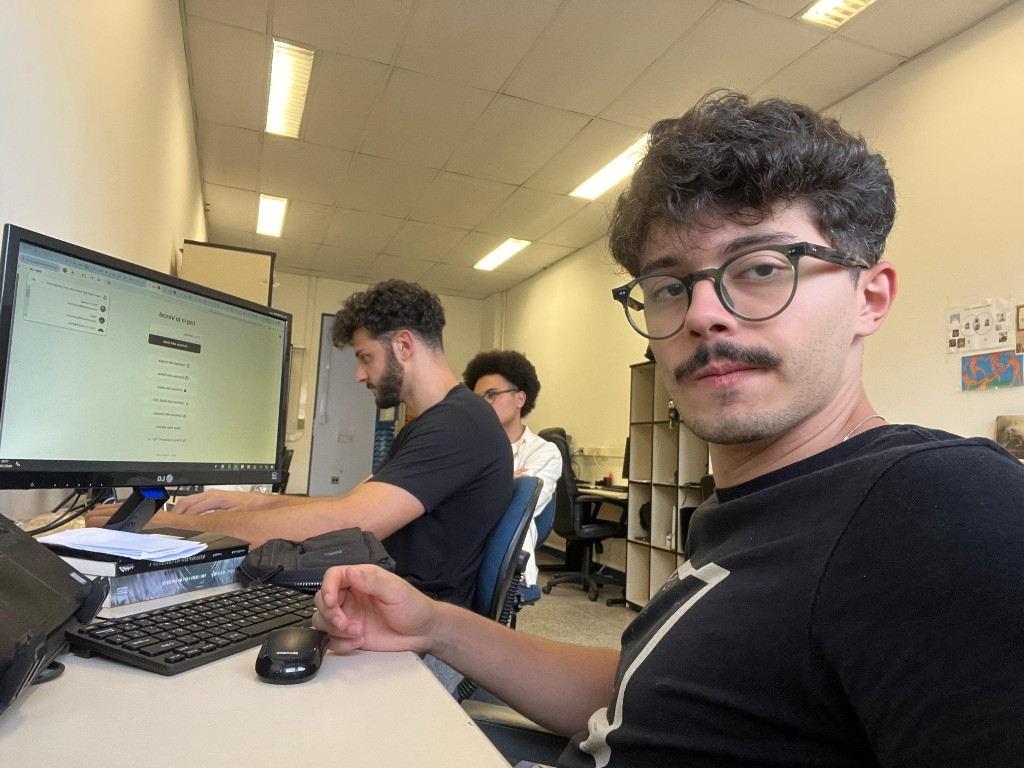
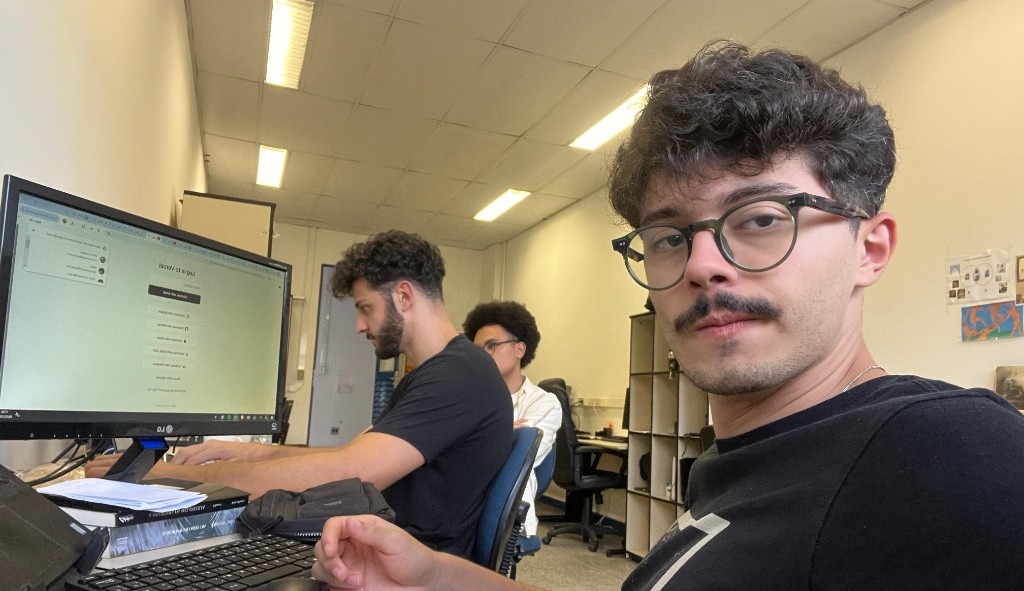
Rate limit sugestões (Upstash), foto Nós Víctor, acento clínica, nota e i18n

diff --git a/lib/sugestoes-rate-limit.ts b/lib/sugestoes-rate-limit.ts
@@ -1,0 +1,60 @@
+import { Ratelimit } from "@upstash/ratelimit";
+import { Redis } from "@upstash/redis";
+
+/** Janela deslizante: margem larga para utilizadores reais; corta abuso em massa. */
+const WINDOW = "15 m";
+const MAX_IN_WINDOW = 35;
+
+let ratelimit: Ratelimit | null | undefined;
+
+function getRatelimit(): Ratelimit | null {
+  if (ratelimit !== undefined) return ratelimit;
+  const url = process.env.UPSTASH_REDIS_REST_URL;
+  const token = process.env.UPSTASH_REDIS_REST_TOKEN;
+  if (!url || !token) {
+    ratelimit = null;
+    return null;
+  }
+  const redis = new Redis({ url, token });
+  ratelimit = new Ratelimit({
+    redis,
+    limiter: Ratelimit.slidingWindow(MAX_IN_WINDOW, WINDOW),
+    prefix: "rl:sugestoes:post",
+  });
+  return ratelimit;
+}
+
+export function getSugestoesClientIp(request: Request): string {
+  const cf = request.headers.get("cf-connecting-ip")?.trim();
+  if (cf) return cf;
+  const fwd = request.headers.get("x-forwarded-for");
+  if (fwd) {
+    const first = fwd.split(",")[0]?.trim();
+    if (first) return first;
+  }
+  const real = request.headers.get("x-real-ip")?.trim();
+  if (real) return real;
+  return "unknown";
+}
+
+/**
+ * Limite por IP quando o Redis Upstash está configurado (o mesmo das sugestões).
+ * Falha aberta: se o Redis falhar, permite o pedido para não quebrar o formulário.
+ */
+export async function allowSugestoesPost(
+  request: Request,
+): Promise<{ allowed: true } | { allowed: false; retryAfterSec: number }> {
+  const rl = getRatelimit();
+  if (!rl) return { allowed: true };
+
+  const ip = getSugestoesClientIp(request);
+  try {
+    const { success, reset } = await rl.limit(ip);
+    if (success) return { allowed: true };
+    const retryAfterMs = Math.max(0, reset - Date.now());
+    const retryAfterSec = Math.max(1, Math.ceil(retryAfterMs / 1000));
+    return { allowed: false, retryAfterSec };
+  } catch {
+    return { allowed: true };
+  }
+}

diff --git a/app/api/sugestoes/route.ts b/app/api/sugestoes/route.ts
@@ -10,6 +10,7 @@ import {
   notifyDiscord,
   type StoredSugestao,
 } from "@/lib/sugestoes-storage";
+import { allowSugestoesPost } from "@/lib/sugestoes-rate-limit";
 
 function isValidEmail(s: string): boolean {
   return /^[^\s@]+@[^\s@]+\.[^\s@]+$/.test(s.trim());
@@ -57,6 +58,17 @@ async function sendResendEmail(entry: StoredSugestao): Promise<boolean> {
 }
 
 export async function POST(request: Request) {
+  const rate = await allowSugestoesPost(request);
+  if (!rate.allowed) {
+    return NextResponse.json(
+      { code: "RATE_LIMIT", retryAfter: rate.retryAfterSec },
+      {
+        status: 429,
+        headers: { "Retry-After": String(rate.retryAfterSec) },
+      },
+    );
+  }
+
   const contentType = request.headers.get("content-type") ?? "";
 
   let name: string;

diff --git a/components/victor/sugestoes-form.tsx b/components/victor/sugestoes-form.tsx
@@ -161,10 +161,17 @@ export function SugestoesForm() {
         method: "POST",
         body: fd,
       });
-      const data = (await res.json()) as { error?: string };
+      const data = (await res.json()) as {
+        error?: string;
+        code?: string;
+      };
       if (!res.ok) {
         setStatus("err");
-        setErrorMsg(data.error ?? t("errGeneric"));
+        if (res.status === 429 && data.code === "RATE_LIMIT") {
+          setErrorMsg(t("errRateLimit"));
+        } else {
+          setErrorMsg(data.error ?? t("errGeneric"));
+        }
         return;
       }
       setStatus("idle");

diff --git a/components/site/home-page.tsx b/components/site/home-page.tsx
@@ -627,7 +627,7 @@ export default function HomePage() {
       category: cat,
       excerpt: victorBio,
       body: [victorBio],
-      imageSrc: "/media/hover/eu9.png",
+      imageSrc: "/media/hover/nos-victor-correard.png",
       imageAlt: tNos("profileCardImageAlt"),
       skipPostDetailPage: true,
       feedTitleAlign: "center",

diff --git a/data/victor-notes-posts.ts b/data/victor-notes-posts.ts
@@ -1408,7 +1408,7 @@ export const VICTOR_FEED_POSTS: VictorFeedPost[] = [
   {
     section: "clinica",
     slug: "clinica-contacto",
-    title: "Atendimento psicoterapeutico",
+    title: "Atendimento psicoterapêutico",
     feedTitleAlign: "center",
     publishedAt: "2026-04-11",
     dateLabel: "11 de abr. de 2026",
